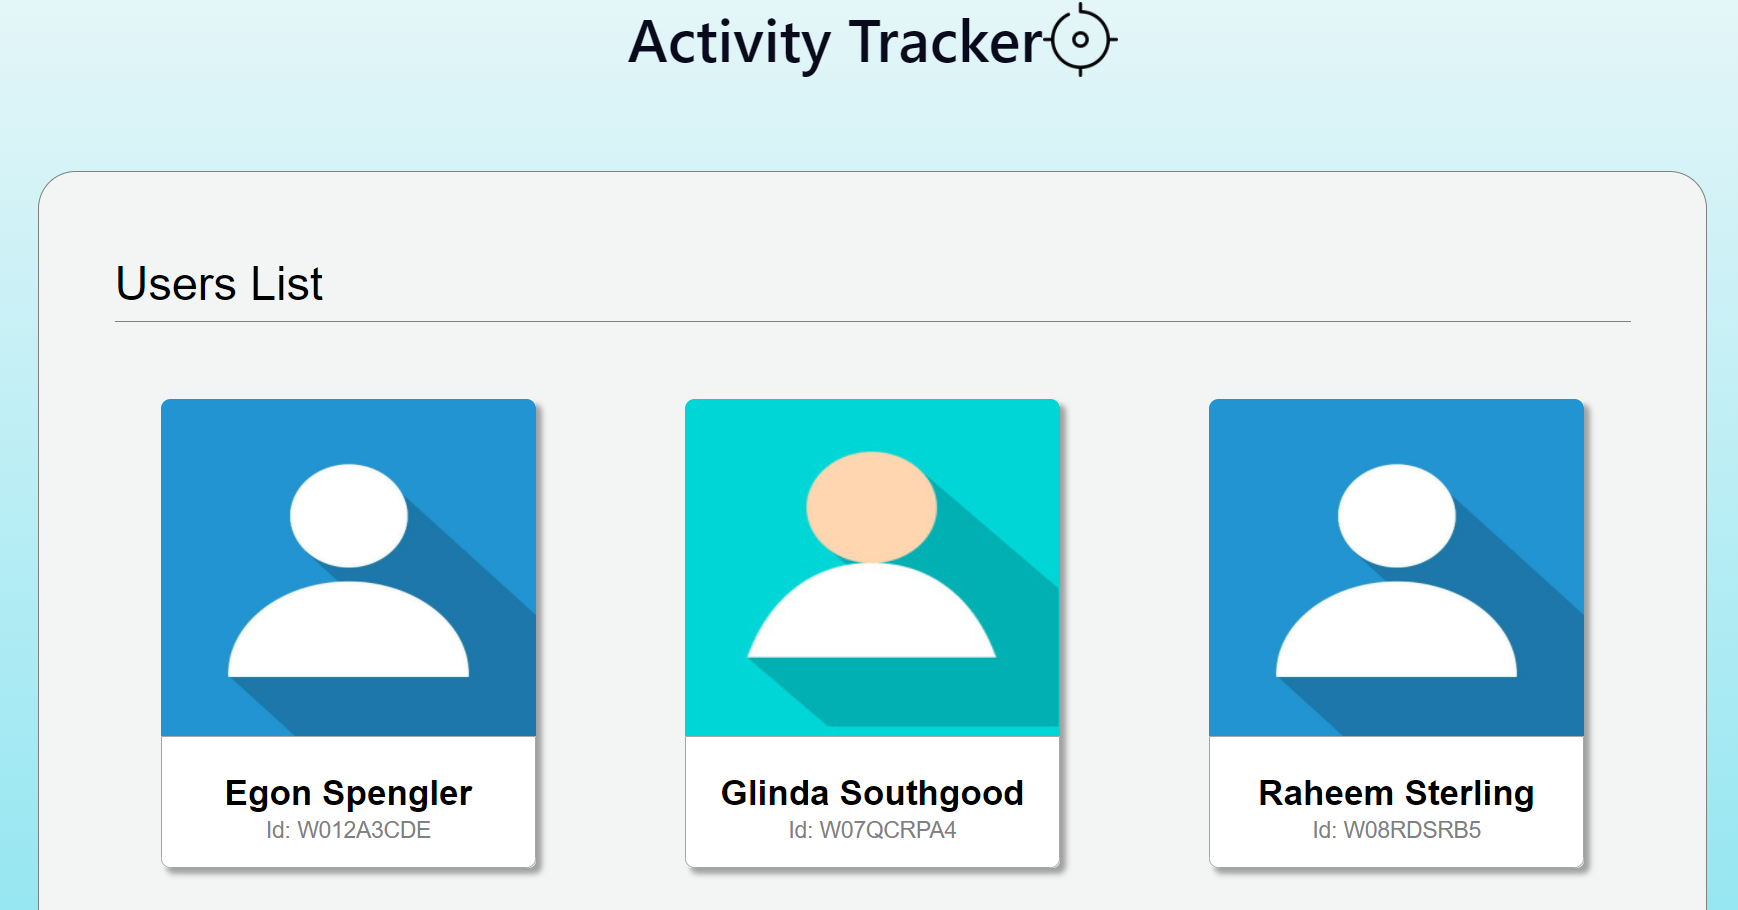
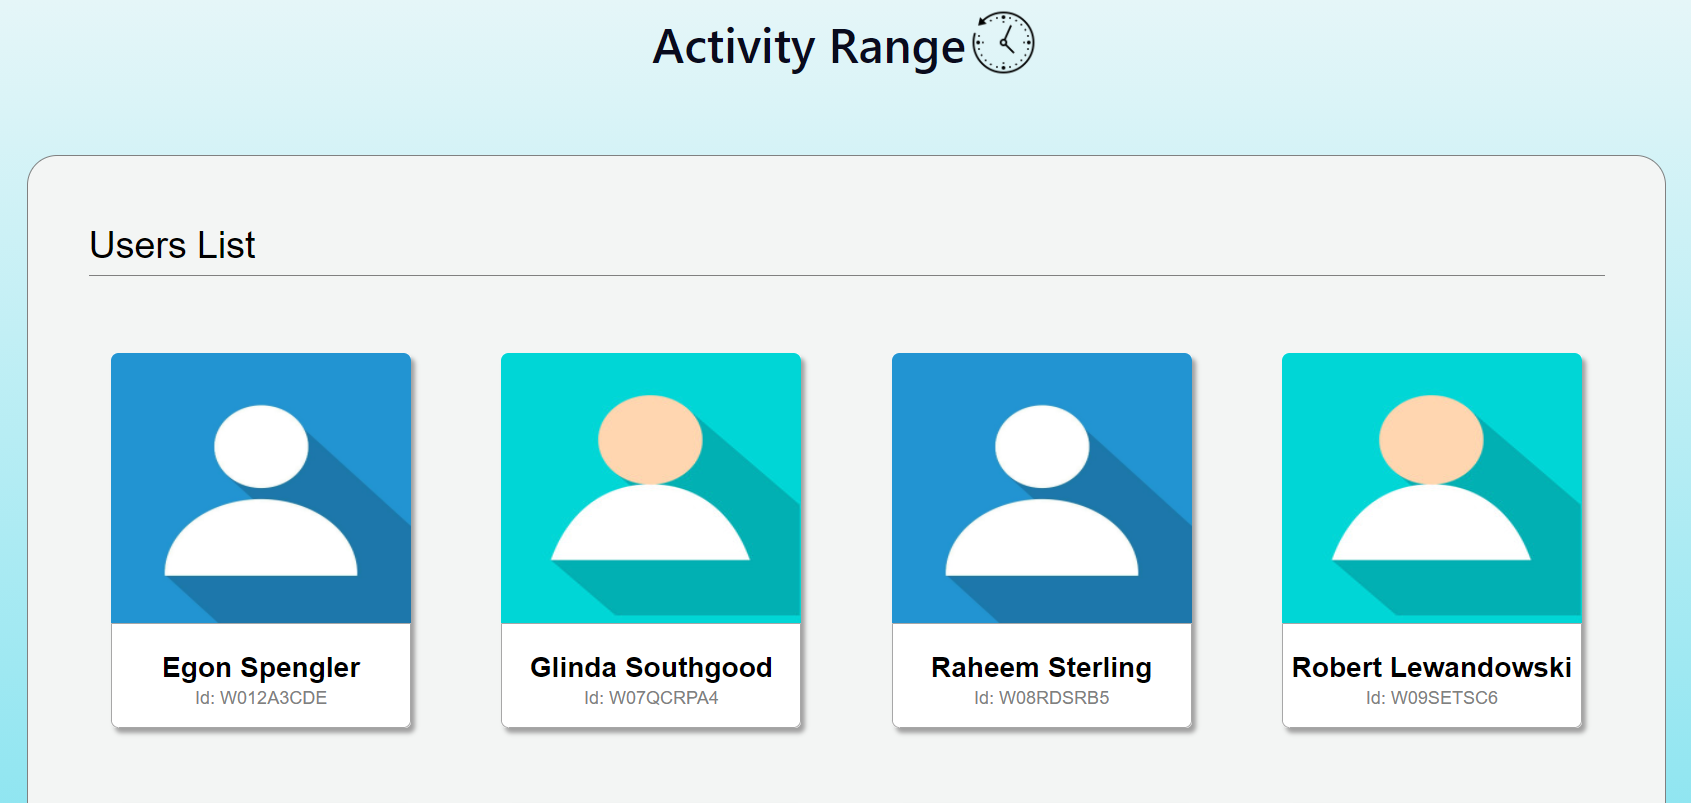
change in app image

diff --git a/README.md b/README.md
@@ -1,4 +1,4 @@
-# Active Range
+# Activity Range
 ## Overview
 This is a simple web application that displays the active time ranges of demo users. You can pick up any date from the built-in calendar and the application will display the time range during which the user was active on that particular day.
 
@@ -23,6 +23,7 @@ Check the following screenshots that will explain various aspects of the app int
 2. On clicking one of the usercards, a modal will show up. It will display the time range on the current day during which the user was active. If he/she was not active during the day, then it will just show an empty message.
 
 **For testing, choose a date between September 07, 2020 and September 12, 2020 as every user has atleast one active time range for these days. Every user has activities scattered in various months. Choosing a date that does not have an active time range, will just show the empty data message.**
+
 <img src="appimages/currentdayactivity.PNG" width="600" height="350" alt="Current day active time ranges" >
 <img src="appimages/noactivity.PNG" width="600" height="350" alt="No available active time range message"  >
 
